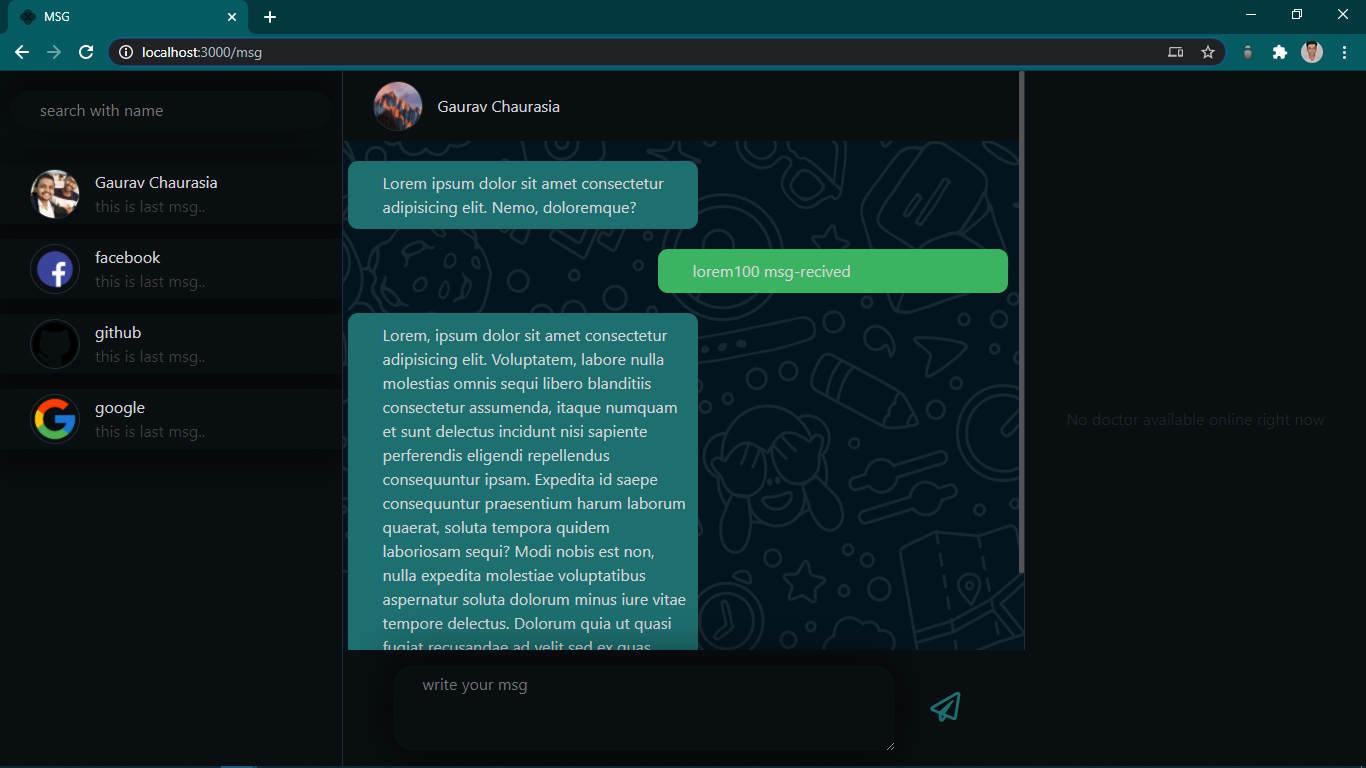
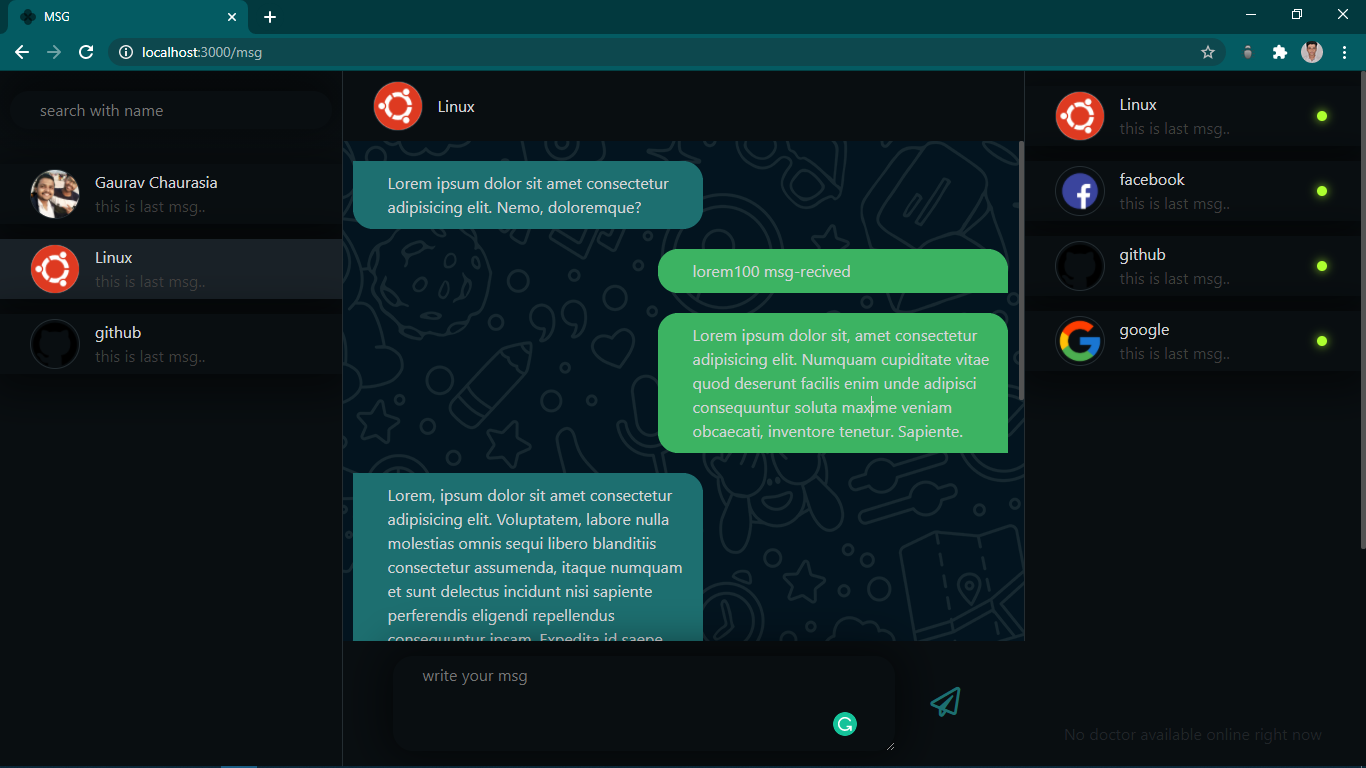
modification in UI

diff --git a/public/stylesheets/msg.css b/public/stylesheets/msg.css
@@ -119,6 +119,7 @@
   display: flex;
   align-items: center;
   padding: 10px 30px;
+  height: 10%;
   background: var(--app-background);
   position: sticky;
   top: 0;
@@ -163,6 +164,7 @@
 .middle-bottom-container {
   background: var(--app-background);
   width: 100%;
+  height: 18%;
   padding: 15px 30px;
   display: flex;
   position: absolute;
@@ -201,7 +203,8 @@
 
 
 .middle-msg-container {
-  padding-bottom: 200px;
+  overflow: auto;
+  height: 72%;
 }
 
 .msg-sent {
@@ -210,7 +213,7 @@
   padding-left: 35px;
   padding-right: 10px;
   border-radius: 0px 20px 20px 20px;
-  margin: 20px 5px;
+  margin: 20px 10px;
   color: var(--badge-border);
   background: var(--audio-track-outgoing);
 }
